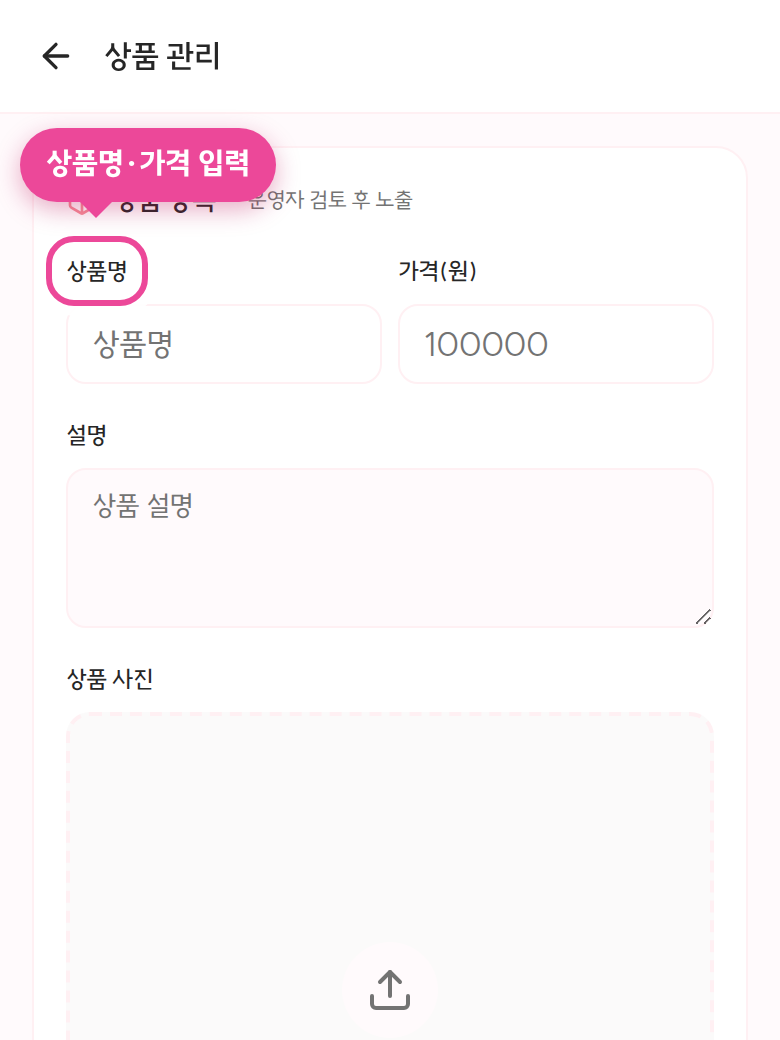
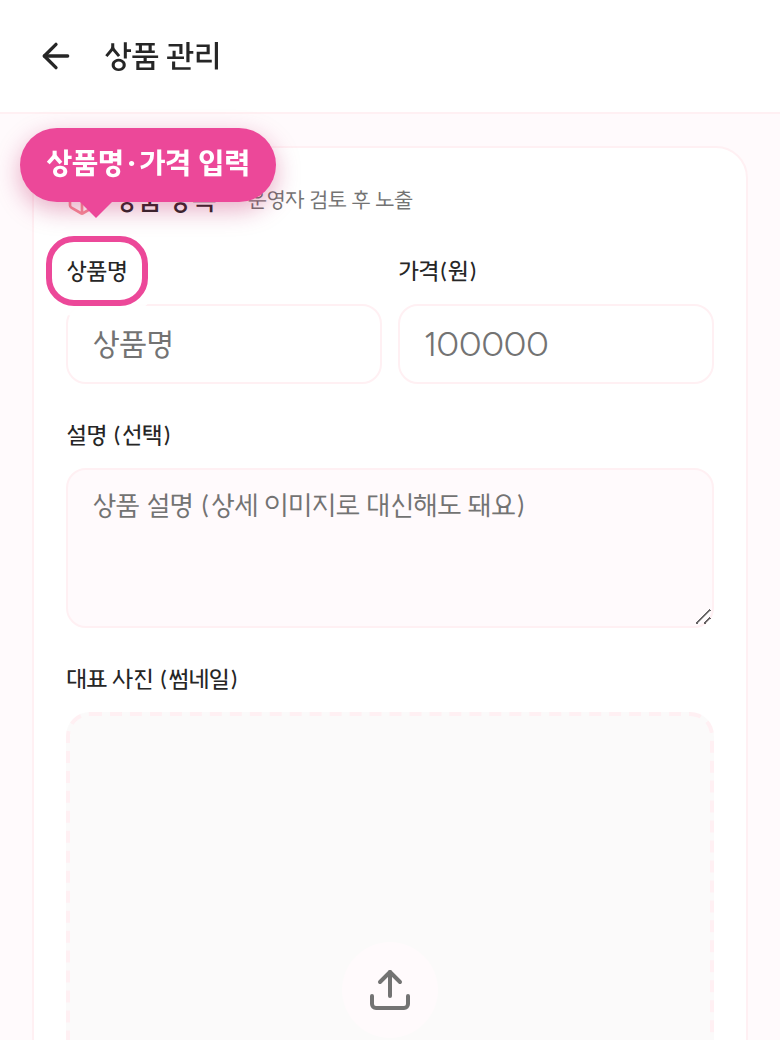
feat: 기업 가이드 재캡처 + 얇은 카테고리(메이크업·한복·예복) 상세 보강 (#370)
* feat: 기업 가이드 스크린샷 재캡처 + 얇은 카테고리(한복·예복) 상세 보강

Task 2 — 기업 가이드 재캡처(폼 변경 반영):
- 이벤트 폼 '배너 필수' → '대표 이미지(선택)·상세 이미지(다중)'로 바뀐 화면 재캡처
  (g4-event-banner 타깃 '상세 이미지'로 수정). 상품 폼(g2-form)·이벤트 폼(g4-event-form)도 갱신.

Task 3 — 한복·예복 CategoryExtras에 기존 미표시 필드 추가(스키마 변경 없음, 값 있을 때만):
- 한복: 브랜드·가봉 횟수·수선 포함 추가.
- 예복: 형태(대여/맞춤)·수선 포함 추가.
- (메이크업은 이미 가용 필드 모두 표시 — 변경 없음.)

검증: build ✅ · lint(error 0) · g4-event-banner 새 폼 일치 확인.

Claude-Session: https://claude.ai/code/session_01WJxgiA3EsfGHTzMffZrNEs

* feat(thin-cat): 메이크업·한복·예복 상세 신규 선택 필드(스키마+RPC+폼+상세)

사용자 승인: 신규 필드 전부 선택 입력, 값 없으면 미노출(조건부 렌더).
- 마이그레이션: place_makeup_shops(duration_min·companion_makeup·product_brands·travel_areas)
  / place_hanboks(rental_days·size_options·family_hanbok)
  / place_tailor_shops(fabric_options·production_days·size_options) 선택 컬럼 추가.
- RPC upsert/get_my_listing_detail 를 현재본(20260521130000) 기준 그대로 재정의 +
  위 3개 분기에만 신규 컬럼 추가(다른 카테고리 동일).
- 입력 폼(BusinessListingDetailForm): 카테고리별 선택 필드 추가(multi/number/bool).
- usePlaceDetail: LegacyDetail 매핑 추가. CategoryExtras: 신규 필드 조건부 렌더(빈 값 미노출).

검증: build ✅ · lint(error 0). ⚠️ RPC/마이그레이션은 배포 후 실DB에서 메이크업/한복/예복
상세 저장→재조회로 검증 필요(sandbox DB e2e 불가). 폼·렌더는 기존 검증된 패턴 동일.

Claude-Session: https://claude.ai/code/session_01WJxgiA3EsfGHTzMffZrNEs

---------

diff --git a/src/pages/VendorDetailPage.tsx b/src/pages/VendorDetailPage.tsx
@@ -471,25 +471,33 @@ function DressShopExtras({ place }: { place: LegacyDetail }) {
 function MakeupExtras({ place }: { place: LegacyDetail }) {
   const fmtMan = formatManwon;
   const has =
-    place.makeup_styles.length > 0 ||
+    place.makeup_styles.length > 0 || place.product_brands.length > 0 ||
+    place.travel_areas.length > 0 ||
     place.includes_rehearsal != null || place.hair_makeup_separate != null ||
     place.rehearsal_count != null || place.travel_fee_included != null ||
-    place.director_level || place.early_morning_fee != null;
+    place.director_level || place.early_morning_fee != null ||
+    place.duration_min != null || place.companion_makeup != null;
   if (!has) return null;
   return (
     <div className="space-y-3">
       <h3 className="font-bold text-sm">메이크업 정보</h3>
       <Tags label="스타일" items={place.makeup_styles} />
+      <Tags label="사용 제품" items={place.product_brands} />
+      <Tags label="출장 지역" items={place.travel_areas} />
       <div className="grid grid-cols-2 gap-2">
         {place.director_level && <Stat label="시술자" value={place.director_level} />}
+        {place.duration_min != null && <Stat label="소요시간" value={`${place.duration_min}분`} />}
         {place.includes_rehearsal != null && (
           <Stat label="리허설 포함" value={place.includes_rehearsal ? "포함" : "별도"} />
+        )}
+        {place.rehearsal_count != null && (
+          <Stat label="리허설 횟수" value={`${place.rehearsal_count}회`} />
         )}
         {place.hair_makeup_separate != null && (
           <Stat label="헤어/메이크업" value={place.hair_makeup_separate ? "분리비" : "통합"} />
         )}
-        {place.rehearsal_count != null && (
-          <Stat label="리허설 횟수" value={`${place.rehearsal_count}회`} />
+        {place.companion_makeup != null && (
+          <Stat label="혼주·동행" value={place.companion_makeup ? "가능" : "불가"} />
         )}
         {place.travel_fee_included != null && (
           <Stat label="출장비" value={place.travel_fee_included ? "포함" : "별도"} />
@@ -504,19 +512,33 @@ function MakeupExtras({ place }: { place: LegacyDetail }) {
 
 function HanbokExtras({ place }: { place: LegacyDetail }) {
   const has =
-    place.hanbok_types.length > 0 || place.custom_available != null ||
-    place.accessories_included != null || place.delivery_available != null;
+    place.hanbok_types.length > 0 || place.designer_brands.length > 0 ||
+    place.size_options.length > 0 ||
+    place.custom_available != null || place.accessories_included != null ||
+    place.delivery_available != null || place.fitting_count != null ||
+    place.rental_includes_alterations != null || place.rental_days != null ||
+    place.family_hanbok != null;
   if (!has) return null;
   return (
     <div className="space-y-3">
       <h3 className="font-bold text-sm">한복 정보</h3>
       <Tags label="한복 유형" items={place.hanbok_types} />
+      <Tags label="브랜드" items={place.designer_brands} />
+      <Tags label="사이즈" items={place.size_options} />
       <div className="grid grid-cols-2 gap-2">
         {place.custom_available != null && (
           <Stat label="맞춤 제작" value={place.custom_available ? "가능" : "대여만"} />
         )}
+        {place.fitting_count != null && <Stat label="가봉 횟수" value={`${place.fitting_count}회`} />}
+        {place.rental_days != null && <Stat label="대여 기간" value={`${place.rental_days}일`} />}
+        {place.family_hanbok != null && (
+          <Stat label="혼주·가족 한복" value={place.family_hanbok ? "가능" : "불가"} />
+        )}
         {place.accessories_included != null && (
           <Stat label="액세서리" value={place.accessories_included ? "포함" : "별도"} />
+        )}
+        {place.rental_includes_alterations != null && (
+          <Stat label="수선" value={place.rental_includes_alterations ? "포함" : "별도"} />
         )}
         {place.delivery_available != null && (
           <Stat label="지방 배송" value={place.delivery_available ? "가능" : "불가"} />
@@ -529,18 +551,29 @@ function HanbokExtras({ place }: { place: LegacyDetail }) {
 function TailorExtras({ place }: { place: LegacyDetail }) {
   const has =
     place.suit_styles.length > 0 || place.designer_brands.length > 0 ||
+    place.fabric_options.length > 0 || place.size_options.length > 0 ||
     place.fitting_count != null || place.custom_available != null ||
-    place.accessories_included != null;
+    place.rental_only != null || place.rental_includes_alterations != null ||
+    place.accessories_included != null || place.production_days != null;
   if (!has) return null;
   return (
     <div className="space-y-3">
       <h3 className="font-bold text-sm">예복 정보</h3>
       <Tags label="스타일" items={place.suit_styles} />
       <Tags label="브랜드" items={place.designer_brands} />
+      <Tags label="원단" items={place.fabric_options} />
+      <Tags label="사이즈" items={place.size_options} />
       <div className="grid grid-cols-2 gap-2">
+        {place.rental_only != null && (
+          <Stat label="형태" value={place.rental_only ? "대여 전용" : "맞춤 가능"} />
+        )}
         {place.fitting_count != null && <Stat label="가봉 횟수" value={`${place.fitting_count}회`} />}
+        {place.production_days != null && <Stat label="제작 소요" value={`${place.production_days}일`} />}
         {place.custom_available != null && (
           <Stat label="맞춤 제작" value={place.custom_available ? "가능" : "대여만"} />
+        )}
+        {place.rental_includes_alterations != null && (
+          <Stat label="수선" value={place.rental_includes_alterations ? "포함" : "별도"} />
         )}
         {place.accessories_included != null && (
           <Stat label="셔츠·구두·넥타이" value={place.accessories_included ? "포함" : "별도"} />

diff --git a/src/hooks/usePlaceDetail.ts b/src/hooks/usePlaceDetail.ts
@@ -201,9 +201,19 @@ export interface LegacyDetail {
   travel_fee_included: boolean | null;
   director_level: string | null;
   early_morning_fee: number | null;
+  duration_min: number | null;
+  companion_makeup: boolean | null;
+  product_brands: string[];
+  travel_areas: string[];
   // Hanbok
   hanbok_types: string[];
   delivery_available: boolean | null;
+  rental_days: number | null;
+  family_hanbok: boolean | null;
+  // Tailor / Hanbok 공용(사이즈) · Tailor 전용(원단·제작일)
+  size_options: string[];
+  fabric_options: string[];
+  production_days: number | null;
   // Honeymoon (product-based: 한 행 = 여행 상품 1개)
   agency_name: string | null;
   agency_product_url: string | null;
@@ -627,8 +637,17 @@ export function mapPlaceDetailRow(data: unknown): LegacyDetail {
         travel_fee_included: (card?.travel_fee_included as boolean) ?? null,
         director_level: (card?.director_level as string) ?? null,
         early_morning_fee: (card?.early_morning_fee as number) ?? null,
+        duration_min: (card?.duration_min as number) ?? null,
+        companion_makeup: (card?.companion_makeup as boolean) ?? null,
+        product_brands: asStringArray(card?.product_brands),
+        travel_areas: asStringArray(card?.travel_areas),
         hanbok_types: asStringArray(card?.hanbok_types),
         delivery_available: (card?.delivery_available as boolean) ?? null,
+        rental_days: (card?.rental_days as number) ?? null,
+        family_hanbok: (card?.family_hanbok as boolean) ?? null,
+        size_options: asStringArray(card?.size_options),
+        fabric_options: asStringArray(card?.fabric_options),
+        production_days: (card?.production_days as number) ?? null,
         agency_name: (card?.agency_name as string) ?? null,
         agency_product_url: (card?.agency_product_url as string) ?? null,
         product_type: (card?.product_type as string) ?? null,

diff --git a/src/components/business/BusinessListingDetailForm.tsx b/src/components/business/BusinessListingDetailForm.tsx
@@ -37,16 +37,26 @@ const DETAIL_SCHEMA: Record<string, FieldDef[]> = {
     { key: "makeup_styles", label: "메이크업 스타일", type: "multi", options: ["내추럴", "글램", "로맨틱", "청순"] },
     { key: "includes_rehearsal", label: "리허설 포함", type: "bool" },
     { key: "hair_makeup_separate", label: "헤어·메이크업 분리", type: "bool" },
+    { key: "duration_min", label: "소요시간(분)", type: "number" },
+    { key: "companion_makeup", label: "혼주·동행 메이크업", type: "bool" },
+    { key: "product_brands", label: "사용 제품 브랜드", type: "multi", options: ["맥", "디올", "샤넬", "바비브라운", "나스", "에스티로더"] },
+    { key: "travel_areas", label: "출장 가능 지역", type: "multi", options: ["서울", "경기", "인천", "지방", "제주"] },
   ],
   hanbok: [
     { key: "hanbok_types", label: "한복 유형", type: "multi", options: ["신부한복", "혼주한복", "폐백한복", "대여", "촬영용", "프리미엄"] },
     { key: "custom_available", label: "맞춤 제작", type: "bool" },
     { key: "delivery_available", label: "배송 가능", type: "bool" },
+    { key: "rental_days", label: "대여 기간(일)", type: "number" },
+    { key: "size_options", label: "사이즈", type: "multi", options: ["표준", "빅사이즈", "키즈", "맞춤"] },
+    { key: "family_hanbok", label: "혼주·가족 한복", type: "bool" },
   ],
   tailor_shop: [
     { key: "suit_styles", label: "예복 유형", type: "multi", options: ["턱시도", "정장", "예복", "캐주얼", "프리미엄"] },
     { key: "custom_available", label: "맞춤 제작", type: "bool" },
     { key: "fitting_count", label: "피팅 횟수", type: "number" },
+    { key: "fabric_options", label: "원단", type: "multi", options: ["울", "혼방", "린넨", "수입원단"] },
+    { key: "production_days", label: "제작 소요(일)", type: "number" },
+    { key: "size_options", label: "사이즈", type: "multi", options: ["표준", "빅사이즈", "키즈", "맞춤"] },
   ],
   invitation_venue: [
     { key: "venue_types", label: "장소 유형", type: "multi", options: ["레스토랑", "한정식", "카페", "파인다이닝", "호텔레스토랑"] },